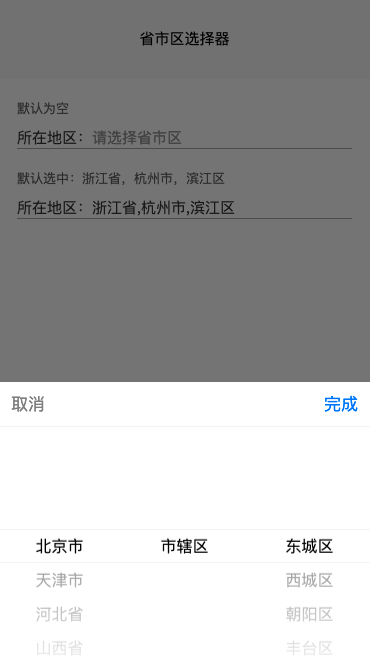
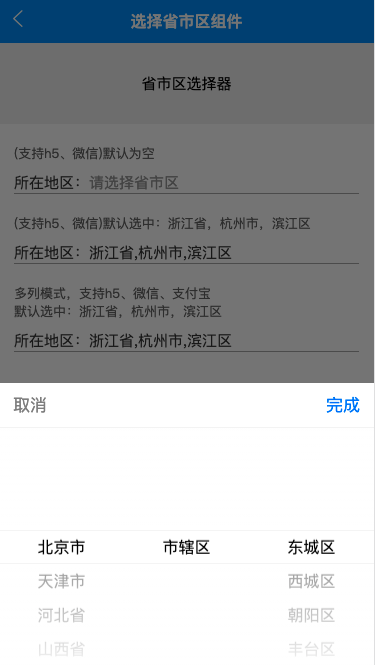
1.提交文档

diff --git a/src/components/MultiPicker.vue b/src/components/MultiPicker.vue
@@ -1,7 +1,7 @@
 <!--
  * @Descripttion: 多列选择器
  * @Date: 2021-09-26 14:00:17
- * @LastEditTime: 2021-09-27 15:08:45
+ * @LastEditTime: 2021-09-27 17:56:54
 -->
 <template>
   <uni-popup ref="popup" type="bottom">
@@ -60,7 +60,7 @@ export default {
     // 滚动容器高度
     height: {
       type: String,
-      default: '500rpx'
+      default: '476rpx'
     },
     // 根据该字段来显示容器中的值
     label: {
@@ -76,7 +76,7 @@ export default {
   },
   data () {
     return {
-      indicatorStyle: `height: 40px;`,
+      indicatorStyle: `height: 68rpx;`,
       value: [], // 默认选中项，根据下标来确定
       currentValue: [], // 记录当前选中的下标
       columns: []
@@ -154,8 +154,9 @@ export default {
   background: #FFF;
 }
 .multi-picker-item {
-  height: 80rpx !important;
-  line-height: 80rpx;
+  height: 68rpx !important;
+  line-height: 68rpx;
+  font-size: 32rpx;
   align-items: center;
   justify-content: center;
   text-align: center;

diff --git a/vue.config.js b/vue.config.js
@@ -1,7 +1,7 @@
 /*
  * @Descripttion:
  * @Date: 2021-06-25 14:53:32
- * @LastEditTime: 2021-09-27 17:02:45
+ * @LastEditTime: 2021-09-23 16:19:10
  */
 
 module.exports = {

diff --git a/docs/多列选择组件.md b/docs/多列选择组件.md
@@ -1,0 +1,131 @@
+> 此组件使用`picker-view`组件组合而成，需要自行处理每列的数据传入
+
+[demo](https://j-y-h.github.io/ua-components/dist/build/h5/#/pages/multiPicker/index)
+
+
+
+#### 基本使用
+
+```html
+<multi-picker label="time" field="value" ref="multiPicker"
+      @columnChange="handleColumnChange"
+      @pickerChage="handePickerChage"></multi-picker>
+```
+
+```js
+import MultiPicker from '@/components/MultiPicker'
+...
+components: {
+  MultiPicker
+},
+data() {
+  return {
+    columns: [],
+    dataList: [], // 选择后的数据
+  }
+},
+methods: {
+  // 监听列变化
+  handleColumnChange({ column, value, data }) {
+    console.log('handleColumnChange---', column, value, data)
+  },
+  // 监听picker选择后变化，或者初始化时
+  handePickerChage(list) {
+    console.log('handePickerChage--', list)
+    this.dataList = list
+  },
+  // 初始化列数据
+ 	setColumnsData() {
+    let list = [[
+      {
+        time: '星期一',
+        value: 1
+      },
+      {
+        time: '星期二',
+        value: 2
+      },
+      {
+        time: '星期三',
+        value: 3
+      }
+    ], [
+      {
+        time: '上午',
+        value: 0
+      },
+      {
+        time: '下午',
+        value: 1
+      }
+    ]]
+    this.$nextTick(function() {
+      this.$refs.multiPicker.setColumns(list)
+    })
+  },
+  // 根据默认值设置列数据(回显)
+  setDefaultData() {
+    this.$nextTick(function() {
+      this.$refs.multiPicker.initDefaultValue([1, 0])
+    })
+  }
+}
+...
+```
+
+
+
+#### 属性
+
+| 属性名          | 类型   | 默认值   | 说明                                                |
+| --------------- | ------ | -------- | --------------------------------------------------- |
+| **label**       | String | ''       | 必填。用于显示滚动容器中的文本对应的key，例如：time |
+| **field**       | String | ‘’       | 必填。根据该字段来遍历回显内容 例如：value          |
+| **cancelText**  | String | 取消     | 取消按钮文字                                        |
+| **okText**      | String | 确定     | 确认按钮文字                                        |
+| **cancelColor** | String | \#888    | 取消按钮颜色                                        |
+| **okColor**     | String | \#007aff | 确认按钮颜色                                        |
+| **title**       | String | ‘’       | picker的标题                                        |
+| **height**      | String | 476rpx   | 滚动容器高度，不包含顶部取消确认按钮的高度          |
+
+
+
+#### 事件
+
+| 事件名           | 说明                                           | 回调                                                         |
+| ---------------- | ---------------------------------------------- | ------------------------------------------------------------ |
+| **pickerChage**  | 点击确定后，返回已选择的数据                   | [{time: 星期一, value: 1}, {time: 上午, value:  0}]          |
+| **columnChange** | 某一列切换后的事件回调，当为联级多列时，会用到 | { column: 0, value: 1, data: { time: '星期二', value: 2} } column：表示切换的是那一列，从0开始 value:表示切换后的列下标  data: 表示切换后当前的数据 |
+
+
+
+#### 方法
+
+| 方法名               | 传参                                                         | 说明                                                        |
+| -------------------- | ------------------------------------------------------------ | ----------------------------------------------------------- |
+| **setColumns**       | [[{time: '星期一', value: 1}, {time: '星期二', value: 2},], ...] | 展示的列数据，根据传入的最外层数组长度判断显示几列          |
+| **initDefaultValue** | [1, 0]    1 -> 星期一   0 -> 上午                            | 会显时，用于还原的值，这里的值需要和属性中的`field`字段对应 |
+| **open**             | 无                                                           | 打开picker                                                  |
+| **close**            | 无                                                           | 关闭picker                                                  |
+
+
+
+#### 注意
+
+1. 调用方法时，需要等组件加载完成之后再调用，可以使用`this.$nextTick`来控制
+
+2. 当组件有嵌套关系时，通过`$refs`来获取实例，支付宝环境需要多层次来获取到实例。微信和h5正常使用例如：
+
+   ```vue
+   <parent ref="parent">
+   	<multi-picker ref="child"></multi-picker>
+   </parent>
+   ```
+
+   此时支付宝环境需要，`this.$refs.parent.$refs.child.xxxx()`
+
+
+
+#### 备注
+
+问题1：目前还存在切换当前列后，下一列样式上不会重置到最上面。

diff --git a/docs/省市区选择组件.md b/docs/省市区选择组件.md
@@ -1,6 +1,6 @@
 > 此组件使用`picker`组件组合而成，使用的省市区数据为网上找到的json数据，也可以根据自己需要修改成从接口获取数据。
 
-[demo](https://j-y-h.github.io/ua-components/dist/build/h5/index.html)
+[demo](https://j-y-h.github.io/ua-components/dist/build/h5/#/pages/region/region)
 
 
 

diff --git a/README.md b/README.md
@@ -13,3 +13,13 @@
 页面样式概览：
 
 <img src="./docs/images/1.png" />
+
+##### 2. 多列选择组件
+
+[文档](./docs/多列选择组件.md)
+
+[demo](https://j-y-h.github.io/ua-components/dist/build/h5/#/pages/multiPicker/index)
+
+页面样式概览：
+
+<img src="./docs/images/2.png" />
